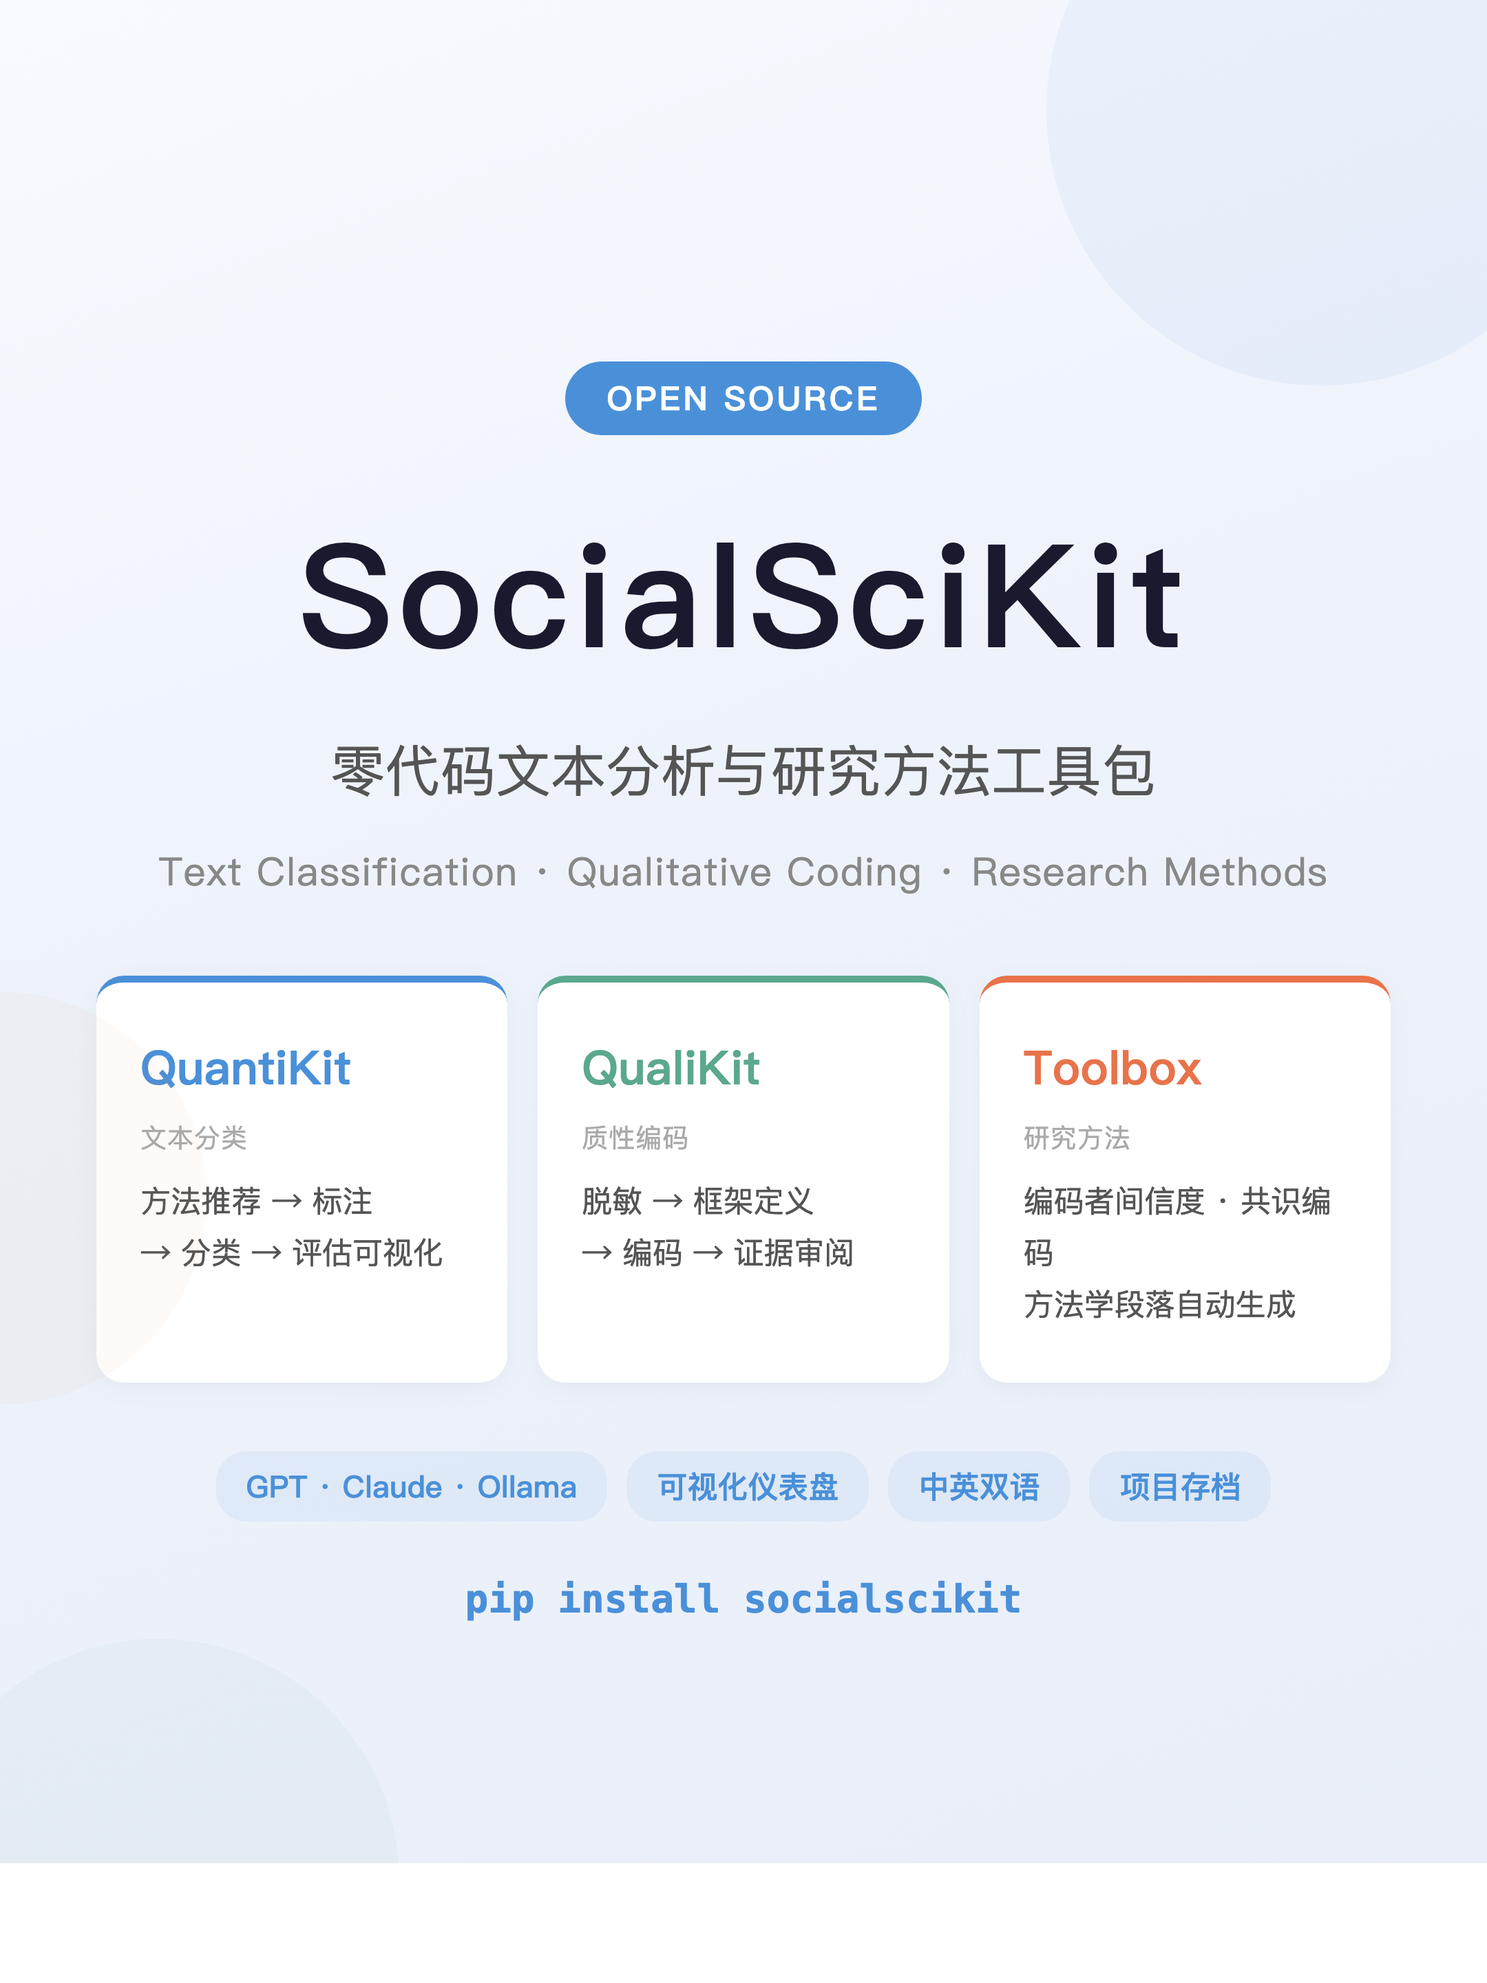
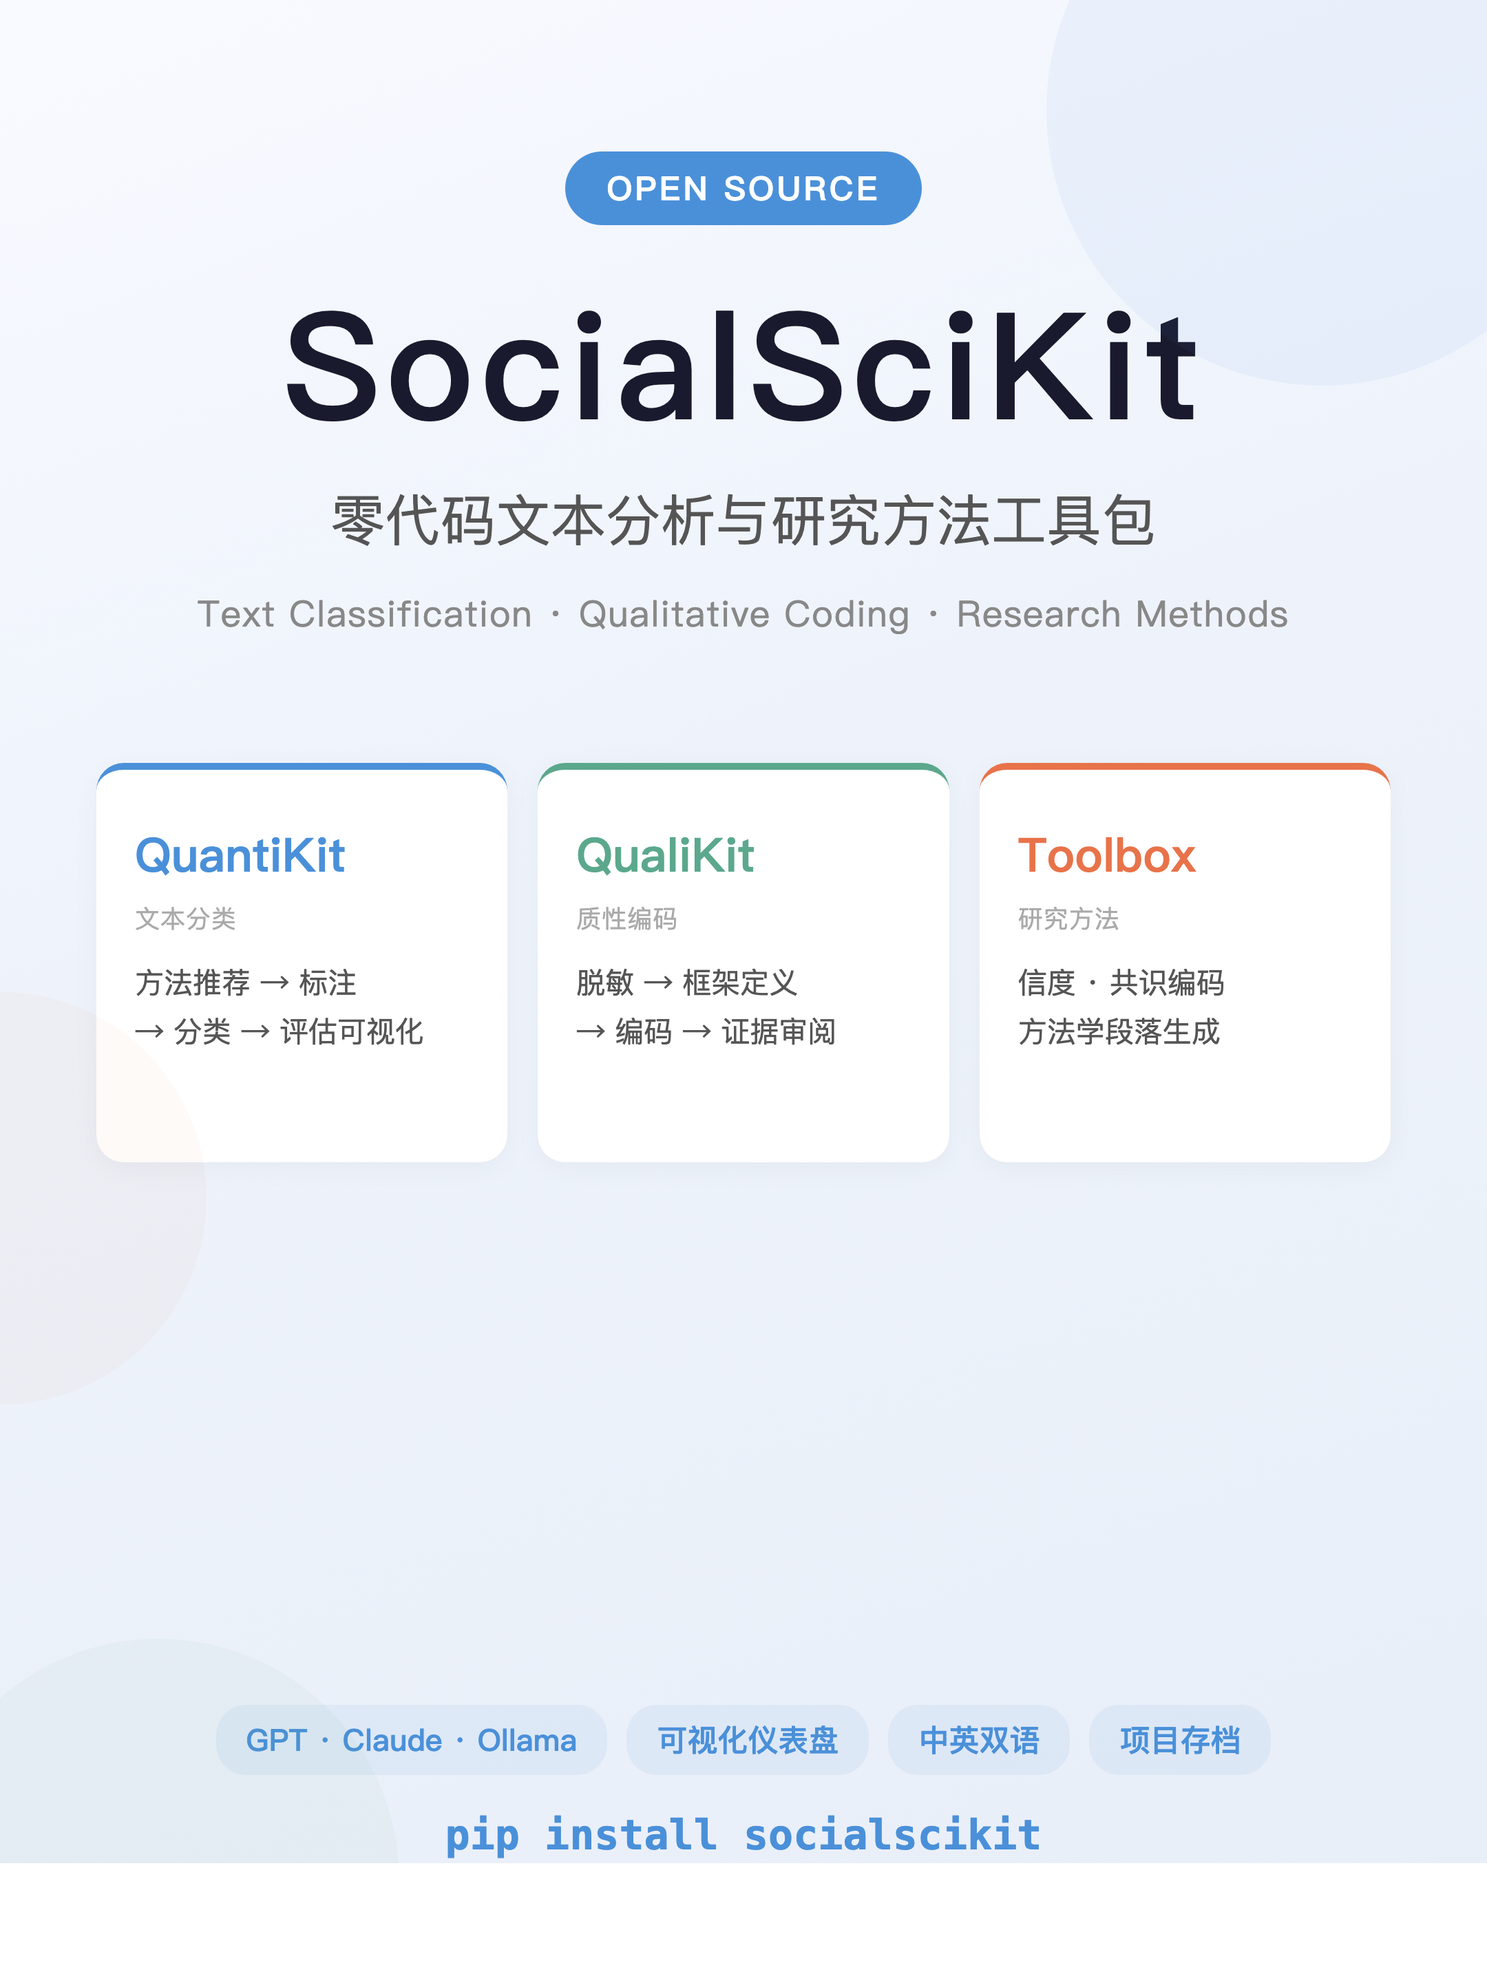
Fix promo image layout — content now fills full 1080×1440 canvas
The previous covers used justify-content:center which left significant
bottom whitespace when content was shorter than 1440px.  Rewire three
posters to use margin-top:auto / padding so content anchors to both top
and bottom naturally:

- 01_cover.png: hero (badge+title+subtitle) at top, feature cards
  in the middle, tags+install URL pinned to bottom.  Also fixed the
  Toolbox card wrapping — "编码者间信度 · 共识编码" was one char too
  wide and wrapping awkwardly; now reads "信度 · 共识编码 / 方法学段
  落生成" in two balanced lines.
- 03_backends.png: slightly smaller card/icon sizes and tighter gaps
  so the bottom tag row no longer clips.
- 06_toolbox.png: flex column with bottom-note anchored via
  margin-top:auto; removed extra margin on chips.

diff --git a/promo/toolbox_ui.html b/promo/toolbox_ui.html
@@ -8,51 +8,51 @@ body {
   width: 1080px; height: 1440px;
   background: linear-gradient(160deg, #fff8f5 0%, #fdebe3 100%);
   font-family: -apple-system, "PingFang SC", "Helvetica Neue", Arial, sans-serif;
-  padding: 60px 60px;
+  padding: 70px 60px 60px;
   display: flex; flex-direction: column;
 }
-h1 { font-size: 52px; color: #E8734A; text-align: center; margin-bottom: 6px; font-weight: 800; }
-.sub { font-size: 22px; color: #999; text-align: center; margin-bottom: 40px; }
+h1 { font-size: 58px; color: #E8734A; text-align: center; margin-bottom: 8px; font-weight: 800; }
+.sub { font-size: 24px; color: #999; text-align: center; margin-bottom: 48px; }
 
-.tools { display: flex; flex-direction: column; gap: 22px; flex: 1; }
+.tools { display: flex; flex-direction: column; gap: 28px; }
 
 .tool {
-  background: #fff; border-radius: 18px; padding: 32px 34px;
+  background: #fff; border-radius: 20px; padding: 36px 40px;
   box-shadow: 0 4px 20px rgba(0,0,0,0.04);
-  border-left: 5px solid #E8734A;
+  border-left: 6px solid #E8734A;
 }
 
-.tool-head { display: flex; align-items: center; gap: 20px; margin-bottom: 18px; }
+.tool-head { display: flex; align-items: center; gap: 22px; margin-bottom: 20px; }
 .tool-icon {
-  width: 56px; height: 56px; border-radius: 14px;
+  width: 64px; height: 64px; border-radius: 16px;
   background: #E8734A; color: #fff;
   display: flex; align-items: center; justify-content: center;
-  font-size: 28px; font-weight: 700;
+  font-size: 32px; font-weight: 700;
 }
-.tool-title h3 { font-size: 28px; color: #222; font-weight: 700; margin-bottom: 4px; }
-.tool-title .en { font-size: 17px; color: #999; letter-spacing: 0.5px; }
+.tool-title h3 { font-size: 30px; color: #222; font-weight: 700; margin-bottom: 4px; }
+.tool-title .en { font-size: 18px; color: #999; letter-spacing: 0.5px; }
 
-.tool-body { font-size: 19px; color: #555; line-height: 1.6; margin-bottom: 14px; }
+.tool-body { font-size: 20px; color: #555; line-height: 1.65; margin-bottom: 16px; }
 .tool-body strong { color: #E8734A; font-weight: 600; }
 
-.chips { display: flex; gap: 8px; flex-wrap: wrap; }
-.chip { background: rgba(232,115,74,0.08); color: #c4562e; font-size: 16px; padding: 5px 14px; border-radius: 14px; font-weight: 500; }
+.chips { display: flex; gap: 10px; flex-wrap: wrap; }
+.chip { background: rgba(232,115,74,0.08); color: #c4562e; font-size: 17px; padding: 6px 16px; border-radius: 16px; font-weight: 500; }
 
 /* Mini-demo boxes */
 .demo {
-  margin-top: 12px; background: #fafafa; border-radius: 10px; padding: 14px 18px;
-  font-family: "JetBrains Mono", Menlo, monospace; font-size: 15px; color: #555;
-  border: 1px solid #f0f0f0;
+  margin-top: 14px; margin-bottom: 14px; background: #fafafa; border-radius: 12px; padding: 16px 22px;
+  font-family: "JetBrains Mono", Menlo, monospace; font-size: 17px; color: #555;
+  border: 1px solid #f0f0f0; line-height: 1.8;
 }
 .demo .key { color: #999; }
 .demo .val { color: #4A90D9; font-weight: 600; }
 .demo .good { color: #5BA88D; font-weight: 600; }
 
 .bottom-note {
-  margin-top: 28px; background: #fff; border: 2px dashed #E8734A; border-radius: 16px;
-  padding: 22px 30px; text-align: center;
+  margin-top: auto; background: #fff; border: 2px dashed #E8734A; border-radius: 18px;
+  padding: 28px 36px; text-align: center;
 }
-.bottom-note p { font-size: 20px; color: #444; line-height: 1.6; }
+.bottom-note p { font-size: 22px; color: #444; line-height: 1.6; }
 .bottom-note strong { color: #E8734A; }
 </style>
 </head>
@@ -71,15 +71,14 @@ h1 { font-size: 52px; color: #E8734A; text-align: center; margin-bottom: 6px; fo
         </div>
       </div>
       <div class="tool-body">
-        <strong>一键计算</strong>多编码者的一致性：Cohen's Kappa、Krippendorff's Alpha、Multi-label Jaccard<br>
-        2 个编码者自动用 Kappa + Alpha，3+ 用 Alpha + 两两 Kappa
+        <strong>一键计算</strong>多编码者的一致性：Cohen's Kappa、Krippendorff's Alpha、Multi-label Jaccard
       </div>
       <div class="demo">
-        <span class="key">Cohen's κ:</span> <span class="val">0.758</span>  <span class="good">&#10004; Substantial agreement</span><br>
+        <span class="key">Cohen's κ:</span> <span class="val">0.758</span>  <span class="good">&#10004; Substantial</span><br>
         <span class="key">Krippendorff α:</span> <span class="val">0.681</span>  <span class="good">&#10004; Tentatively reliable</span>
       </div>
-      <div class="chips" style="margin-top: 10px;">
-        <span class="chip">单标签 / 多标签</span>
+      <div class="chips">
+        <span class="chip">单/多标签</span>
         <span class="chip">N 个编码者</span>
         <span class="chip">可视化柱状图</span>
       </div>
@@ -94,14 +93,13 @@ h1 { font-size: 52px; color: #E8734A; text-align: center; margin-bottom: 6px; fo
         </div>
       </div>
       <div class="tool-body">
-        <strong>2–5 个 LLM 并行编码</strong>，多数投票选出共识主题 — 更稳健、更透明<br>
-        可混合 OpenAI + Anthropic + Ollama，打破单模型偏差
+        <strong>2–5 个 LLM 并行编码</strong>，多数投票选出共识主题 — 更稳健、更透明。可混合 OpenAI + Anthropic + Ollama，打破单模型偏差
       </div>
       <div class="chips">
         <span class="chip">多数投票</span>
         <span class="chip">一致性报告</span>
         <span class="chip">动态增删 LLM</span>
-        <span class="chip">本地 + 云端混合</span>
+        <span class="chip">云端 + 本地</span>
       </div>
     </div>
 
@@ -114,8 +112,7 @@ h1 { font-size: 52px; color: #E8734A; text-align: center; margin-bottom: 6px; fo
         </div>
       </div>
       <div class="tool-body">
-        导入 QuantiKit / QualiKit 流程 log，<strong>自动生成论文方法学段落</strong>（中英双语）<br>
-        包含样本量、类别数、模型信息、评估指标、ICR 报告
+        导入 QuantiKit / QualiKit 流程 log，<strong>自动生成论文方法学段落</strong>（中英双语）。包含样本量、类别数、模型信息、评估指标、ICR 报告
       </div>
       <div class="chips">
         <span class="chip">中英双语</span>

diff --git a/promo/cover.html b/promo/cover.html
@@ -8,8 +8,8 @@ body {
   width: 1080px; height: 1440px;
   background: linear-gradient(160deg, #f8faff 0%, #eef3fb 40%, #e8eef8 100%);
   font-family: -apple-system, "PingFang SC", "Helvetica Neue", Arial, sans-serif;
-  display: flex; flex-direction: column; align-items: center; justify-content: center;
-  padding: 70px;
+  display: flex; flex-direction: column; align-items: center;
+  padding: 110px 70px 90px;
   position: relative;
   overflow: hidden;
 }
@@ -18,30 +18,33 @@ body {
 .circle2 { position: absolute; bottom: -100px; left: -60px; width: 350px; height: 350px; border-radius: 50%; background: rgba(91,168,141,0.05); }
 .circle3 { position: absolute; top: 50%; left: -150px; width: 300px; height: 300px; border-radius: 50%; background: rgba(232,115,74,0.04); }
 
-.badge { display: inline-block; background: #4A90D9; color: #fff; font-size: 24px; font-weight: 600; padding: 10px 30px; border-radius: 30px; letter-spacing: 2px; margin-bottom: 44px; }
-.title { font-size: 104px; font-weight: 800; color: #1a1a2e; letter-spacing: 4px; margin-bottom: 24px; text-align: center; }
-.subtitle { font-size: 40px; color: #555; font-weight: 400; text-align: center; margin-bottom: 24px; line-height: 1.5; }
-.tagline { font-size: 28px; color: #888; font-weight: 400; text-align: center; margin-bottom: 56px; letter-spacing: 1px; }
+.hero { display: flex; flex-direction: column; align-items: center; }
+.badge { display: inline-block; background: #4A90D9; color: #fff; font-size: 24px; font-weight: 600; padding: 10px 30px; border-radius: 30px; letter-spacing: 2px; margin-bottom: 48px; }
+.title { font-size: 108px; font-weight: 800; color: #1a1a2e; letter-spacing: 4px; margin-bottom: 28px; text-align: center; line-height: 1; }
+.subtitle { font-size: 40px; color: #555; font-weight: 400; text-align: center; margin-bottom: 20px; line-height: 1.5; }
+.tagline { font-size: 26px; color: #888; font-weight: 400; text-align: center; letter-spacing: 1px; }
 
-.features { display: flex; gap: 22px; margin-bottom: 50px; width: 100%; justify-content: center; }
+.features { display: flex; gap: 22px; width: 100%; justify-content: center; margin-top: 90px; }
 .feature-card {
-  background: #fff; border-radius: 20px; padding: 38px 32px; flex: 1; max-width: 320px;
+  background: #fff; border-radius: 20px; padding: 38px 28px; flex: 1;
   box-shadow: 0 4px 20px rgba(0,0,0,0.04);
   border-top: 5px solid #4A90D9;
+  min-height: 290px;
+  display: flex; flex-direction: column;
 }
 .feature-card.green { border-top-color: #5BA88D; }
 .feature-card.green h3 { color: #5BA88D; }
 .feature-card.orange { border-top-color: #E8734A; }
 .feature-card.orange h3 { color: #E8734A; }
-.feature-card h3 { font-size: 34px; color: #4A90D9; margin-bottom: 14px; font-weight: 700; }
-.feature-card .en { font-size: 19px; color: #aaa; margin-bottom: 14px; letter-spacing: 0.5px; }
-.feature-card p { font-size: 22px; color: #555; line-height: 1.7; }
+.feature-card h3 { font-size: 34px; color: #4A90D9; margin-bottom: 10px; font-weight: 700; }
+.feature-card .en { font-size: 18px; color: #aaa; margin-bottom: 16px; letter-spacing: 0.5px; }
+.feature-card p { font-size: 21px; color: #555; line-height: 1.7; }
 
-.tags { display: flex; gap: 14px; flex-wrap: wrap; justify-content: center; margin-bottom: 40px; }
+.bottom { margin-top: auto; display: flex; flex-direction: column; align-items: center; gap: 26px; }
+.tags { display: flex; gap: 14px; flex-wrap: wrap; justify-content: center; }
 .tag { background: rgba(74,144,217,0.08); color: #4A90D9; font-size: 22px; padding: 10px 22px; border-radius: 22px; font-weight: 500; }
 
-.bottom { text-align: center; }
-.bottom .url { font-size: 28px; color: #4A90D9; font-weight: 600; font-family: "JetBrains Mono", "Menlo", monospace; }
+.url { font-size: 30px; color: #4A90D9; font-weight: 600; font-family: "JetBrains Mono", "Menlo", monospace; }
 </style>
 </head>
 <body>
@@ -49,10 +52,12 @@ body {
   <div class="circle2"></div>
   <div class="circle3"></div>
 
-  <div class="badge">OPEN SOURCE</div>
-  <div class="title">SocialSciKit</div>
-  <div class="subtitle">零代码文本分析与研究方法工具包</div>
-  <div class="tagline">Text Classification · Qualitative Coding · Research Methods</div>
+  <div class="hero">
+    <div class="badge">OPEN SOURCE</div>
+    <div class="title">SocialSciKit</div>
+    <div class="subtitle">零代码文本分析与研究方法工具包</div>
+    <div class="tagline">Text Classification · Qualitative Coding · Research Methods</div>
+  </div>
 
   <div class="features">
     <div class="feature-card">
@@ -68,18 +73,17 @@ body {
     <div class="feature-card orange">
       <h3>Toolbox</h3>
       <div class="en">研究方法</div>
-      <p>编码者间信度 · 共识编码<br>方法学段落自动生成</p>
+      <p>信度 · 共识编码<br>方法学段落生成</p>
     </div>
   </div>
 
-  <div class="tags">
-    <span class="tag">GPT · Claude · Ollama</span>
-    <span class="tag">可视化仪表盘</span>
-    <span class="tag">中英双语</span>
-    <span class="tag">项目存档</span>
-  </div>
-
   <div class="bottom">
+    <div class="tags">
+      <span class="tag">GPT · Claude · Ollama</span>
+      <span class="tag">可视化仪表盘</span>
+      <span class="tag">中英双语</span>
+      <span class="tag">项目存档</span>
+    </div>
     <div class="url">pip install socialscikit</div>
   </div>
 </body>

diff --git a/promo/backends.html b/promo/backends.html
@@ -8,56 +8,43 @@ body {
   width: 1080px; height: 1440px;
   background: linear-gradient(160deg, #f8faff 0%, #eef3fb 100%);
   font-family: -apple-system, "PingFang SC", "Helvetica Neue", Arial, sans-serif;
-  padding: 70px 60px;
-  display: flex; flex-direction: column; align-items: center;
+  padding: 80px 60px 80px;
+  display: flex; flex-direction: column;
 }
-h1 { font-size: 56px; color: #1a1a2e; text-align: center; margin-bottom: 16px; font-weight: 800; }
-.sub { font-size: 26px; color: #888; text-align: center; margin-bottom: 54px; }
+h1 { font-size: 58px; color: #1a1a2e; text-align: center; margin-bottom: 12px; font-weight: 800; }
+.sub { font-size: 24px; color: #888; text-align: center; margin-bottom: 54px; }
 
-.cards { display: flex; flex-direction: column; gap: 26px; width: 100%; }
+.cards { display: flex; flex-direction: column; gap: 24px; }
 
 .card {
-  background: #fff; border-radius: 22px; padding: 38px 44px;
+  background: #fff; border-radius: 20px; padding: 32px 44px;
   box-shadow: 0 4px 24px rgba(0,0,0,0.04);
   border: 1px solid rgba(0,0,0,0.06);
   display: flex; align-items: center; gap: 36px;
 }
 .card-icon {
-  width: 100px; height: 100px; border-radius: 22px;
+  width: 96px; height: 96px; border-radius: 20px;
   display: flex; align-items: center; justify-content: center;
-  font-size: 42px; font-weight: 800; color: #fff; flex-shrink: 0;
+  font-size: 40px; font-weight: 800; color: #fff; flex-shrink: 0;
 }
 .card-icon.openai { background: linear-gradient(135deg, #10a37f, #0d8c6d); }
 .card-icon.anthropic { background: linear-gradient(135deg, #d4a574, #c4956a); }
 .card-icon.ollama { background: linear-gradient(135deg, #333, #555); }
 
 .card-body { flex: 1; }
-.card-body h3 { font-size: 32px; color: #222; margin-bottom: 8px; font-weight: 700; }
-.card-body .models { font-size: 21px; color: #4A90D9; margin-bottom: 8px; font-weight: 500; font-family: "JetBrains Mono", monospace; }
+.card-body h3 { font-size: 30px; color: #222; margin-bottom: 8px; font-weight: 700; }
+.card-body .models { font-size: 20px; color: #4A90D9; margin-bottom: 8px; font-weight: 500; font-family: "JetBrains Mono", monospace; }
 .card-body .desc { font-size: 20px; color: #888; line-height: 1.5; }
 
 .highlight-box {
-  margin-top: 44px; background: #fff; border: 2px dashed #4A90D9; border-radius: 20px;
-  padding: 34px 48px; text-align: center; width: 100%;
+  margin-top: 34px; background: #fff; border: 2px dashed #4A90D9; border-radius: 18px;
+  padding: 28px 40px; text-align: center;
 }
-.highlight-box p { font-size: 26px; color: #333; line-height: 1.8; }
+.highlight-box p { font-size: 24px; color: #333; line-height: 1.8; }
 .highlight-box strong { color: #4A90D9; font-family: "JetBrains Mono", monospace; }
 
-.section-div { font-size: 28px; color: #222; font-weight: 700; margin: 40px 0 20px; letter-spacing: 1px; }
-
-.modules { display: flex; gap: 18px; width: 100%; }
-.module {
-  flex: 1; background: #fff; border-radius: 16px; padding: 22px 20px;
-  border-left: 4px solid #4A90D9;
-  box-shadow: 0 2px 10px rgba(0,0,0,0.03);
-}
-.module.green { border-left-color: #5BA88D; }
-.module.orange { border-left-color: #E8734A; }
-.module h4 { font-size: 22px; color: #222; margin-bottom: 8px; font-weight: 700; }
-.module p { font-size: 17px; color: #666; line-height: 1.5; }
-
-.bottom-tags { display: flex; gap: 14px; margin-top: 36px; justify-content: center; flex-wrap: wrap; }
-.btag { background: rgba(74,144,217,0.08); color: #4A90D9; font-size: 20px; padding: 10px 22px; border-radius: 22px; font-weight: 500; }
+.bottom-tags { display: flex; gap: 12px; margin-top: auto; padding-top: 28px; justify-content: center; flex-wrap: wrap; }
+.btag { background: rgba(74,144,217,0.08); color: #4A90D9; font-size: 20px; padding: 8px 20px; border-radius: 20px; font-weight: 500; }
 </style>
 </head>
 <body>
